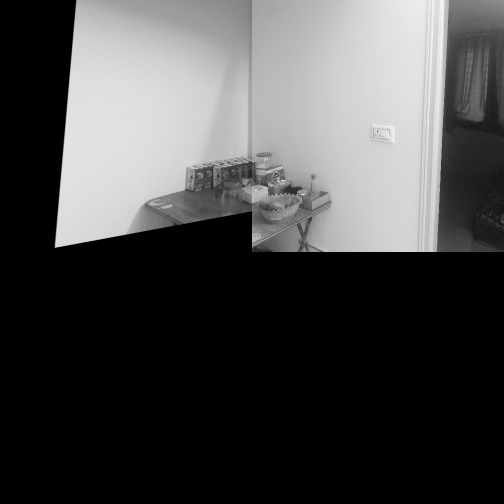
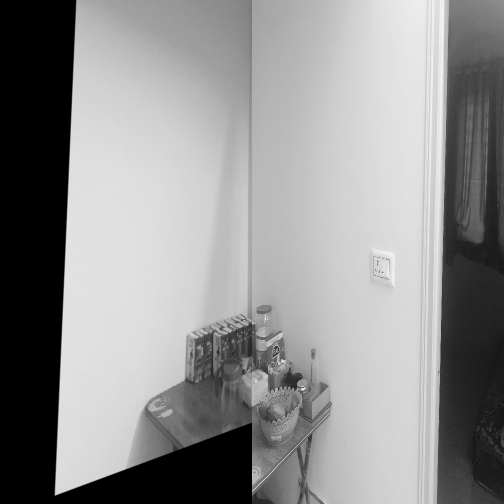
first working four image stitching

diff --git a/image_stitching/stepwise_stitching/core.py b/image_stitching/stepwise_stitching/core.py
@@ -53,7 +53,7 @@ def FLANN_matcher(src_kp, dest_kp, src_desc, dest_desc):
 
 
 def matches_visualization(src_image, dest_image, src_kp, dest_kp, good_matches,
-                          h_mat, matches_mask):
+                          h_mat, matches_mask, task_name):
     '''
     @brief: visualize the good matches
     @args[in]:
@@ -80,11 +80,11 @@ def matches_visualization(src_image, dest_image, src_kp, dest_kp, good_matches,
     cv2.imshow('matching feature visualization', image3)
     cv2.moveWindow('matching feature visualization', 100, 50)
     cv2.waitKey(0)
-    cv2.imwrite('output/matching_{}.png'.format(params.TEST_ID), image3)
+    cv2.imwrite('output/matching_{}.png'.format(task_name), image3)
     cv2.destroyWindow('matching feature visualization')
 
 
-def get_homography_matrix(src_image, dest_image):
+def get_homography_matrix(src_image, dest_image, task_name):
     '''
     @brief: find homography matrix and keypoint in source and destination image 
             for best match
@@ -123,11 +123,11 @@ def get_homography_matrix(src_image, dest_image):
     if params.TEST_BOOL:
         matches_visualization(src_image.copy(), dest_image.copy(),
                               src_kp, dest_kp, good_matches,
-                              h_mat, matches_mask)
+                              h_mat, matches_mask, task_name)
     return (h_mat, best_match)
 
 
-def find_homography(images):
+def find_homography(images, task_name):
     '''
     @brief:
     @args[in]:
@@ -136,7 +136,7 @@ def find_homography(images):
     homography = []
     for i in range(len(images)):
         for j in range(i+1, len(images)):
-            h_mat, bm = get_homography_matrix(images[i], images[j])
+            h_mat, bm = get_homography_matrix(images[i], images[j], task_name)
             if h_mat is not None:
                 homography.append([i, j, h_mat, bm])
     if len(homography) == 0:
@@ -150,12 +150,15 @@ def warp(src_image, dest_image,  H, src_bm_kp, dest_bm_kp, direction='hor', dest
     warped_src_bm_kp = [x/warped_src_bm_kp_t[2] for x in warped_src_bm_kp_t]
     # calculate offset based on the warping direction
     if direction == 'r2l':
+        stitched_frame_size = (2 * src_image.shape[1], src_image.shape[0])
         x_offset = dest_bm_kp[0] - warped_src_bm_kp[0]
         y_offset = dest_bm_kp[1] - warped_src_bm_kp[1]
     elif direction == 'l2r':
+        stitched_frame_size = (2*src_image.shape[1], src_image.shape[0])
         x_offset = dest_bm_kp[0]+src_image.shape[0] - warped_src_bm_kp[0]
         y_offset = dest_bm_kp[1] - warped_src_bm_kp[1]
     elif direction == 't2b':
+        stitched_frame_size = (src_image.shape[1], 2*src_image.shape[0])
         x_offset = dest_bm_kp[0] - warped_src_bm_kp[0]
         y_offset = dest_bm_kp[1]+src_image.shape[1] - warped_src_bm_kp[1]
     # caculate new homography matrix with offset compensation
@@ -167,7 +170,6 @@ def warp(src_image, dest_image,  H, src_bm_kp, dest_bm_kp, direction='hor', dest
     H = np.dot(T, H)
     print(H)
     # warp the source image
-    stitched_frame_size = tuple(2*x for x in src_image.shape)
     print(dest_image.shape, stitched_frame_size)
     stitched = cv2.warpPerspective(src_image, H, stitched_frame_size)
     # overlay destination image on warped output

diff --git a/image_stitching/stepwise_stitching/main.py b/image_stitching/stepwise_stitching/main.py
@@ -36,7 +36,7 @@ def main():
     images_stitch = [src_image, dest_image]
 
     # feature finding and image matching
-    h_mat = core.find_homography(images_stitch)
+    h_mat = core.find_homography(images_stitch, 'image01')
     # stitch image
     if h_mat is not None:
         # core.stitch(images_stitch, h_mat[0][2], h_mat[0][3])
@@ -47,7 +47,7 @@ def main():
     dest_image = images[3][1]
     images_stitch = [src_image, dest_image]
     # feature finding and image matching
-    h_mat = core.find_homography(images_stitch)
+    h_mat = core.find_homography(images_stitch, 'image23')
     # stitch image
     if h_mat is not None:
         # core.stitch(images_stitch, h_mat[0][2], h_mat[0][3])
@@ -58,14 +58,14 @@ def main():
     dest_image = image23
     images_stitch = [src_image, dest_image]
     # feature finding and image matching
-    h_mat = core.find_homography(images_stitch)
+    h_mat = core.find_homography(images_stitch, 'image01_23')
     # stitch image
     if h_mat is not None:
         # core.stitch(images_stitch, h_mat[0][2], h_mat[0][3])
         image01_02 = core.warp(src_image, dest_image,  h_mat[0][2],
                                h_mat[0][3][0], h_mat[0][3][1],
                                direction='t2b', dest_overlay=True)
-        cv2.imwrite('output/image01_02.png', image01_02)
+        cv2.imwrite('output/image01_23.png', image01_02)
 
 
 if __name__ == '__main__':
